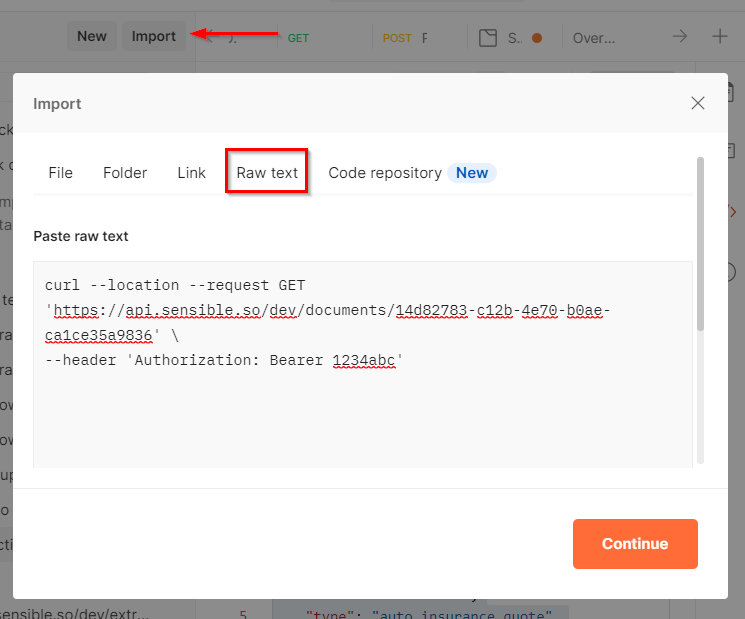
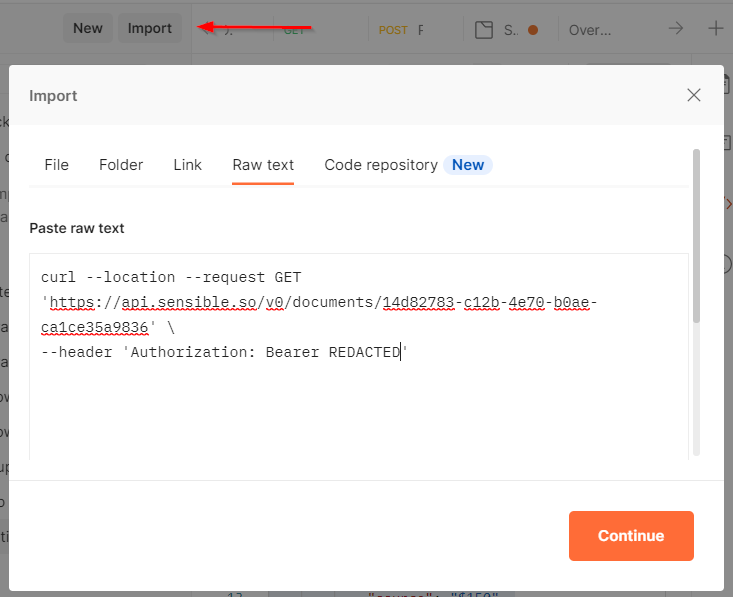
dev instance corrected

diff --git a/readme-sync/v0/api/100 - api-tutorial/100 - api-tutorial-sync.md b/readme-sync/v0/api/100 - api-tutorial/100 - api-tutorial-sync.md
@@ -35,7 +35,7 @@ curl --request POST \
 
 ![](https://raw.githubusercontent.com/sensible-hq/sensible-docs/main/readme-sync/assets/v0/images/quickstart_postman_import.png)
 
-2. Download the following example PDF, which works with the example `auto_insurance_quote` config you created previously:
+2. Download the following example PDF, which works with the example `auto_insurance_quote` config you created previously in the Prerequisites:
 
    | auto_insurance_anyco_golden | [Download link](https://github.com/sensible-hq/sensible-docs/blob/main/readme-sync/assets/v0/pdfs/auto_insurance_anyco_golden.pdf) |
    | --------------------------- | ------------------------------------------------------------ |
@@ -77,5 +77,4 @@ curl --request POST \
 ```
 
 **Note:** You don't have to specify the config you created (`anyco`) in this call. Sensible looks at all the configs for the document type you made in this quickstart (`auto_insurance_quote`), and **automatically** chooses the one that fits best! 
-
 

diff --git a/readme-sync/v0/api/100 - api-tutorial/200 - api-tutorial-async.md b/readme-sync/v0/api/100 - api-tutorial/200 - api-tutorial-async.md
@@ -156,7 +156,7 @@ Now use the one-time URL you just generated to extract data from the document:
 1. Copy the following code sample. Replace the URL with the `upload_url` that you got as a response in the previous step:
 
 ```json
-curl --location --request PUT 'https://sensible-so-utility-bucket-dev-us-west-2.s3.us-west-2.amazonaws.com/EXTRACTION_UPLOAD/sensible/fc3484c5-3f35-4129-bb29-0ad1291ee9f8/EXTRACTION/28c7e5ac-3943-4f86-bd72-8aac3fa38a43.pdf?AWSAccessKeyId=REDACTED&Expires=1623861476&Signature=wpUXfUcnoaoE2u%2FV7JSB%2FQ7iJo0%3D&x-amz-security-token=REDACTED' \
+curl --location --request PUT 'YOUR_UPLOAD_URL' \
 --header 'Content-Type: text/plain' \
 --data-binary '@/PATH_TO_DOWNLOADED_PDF/auto_insurance_anyco_golden.pdf'
 ```
